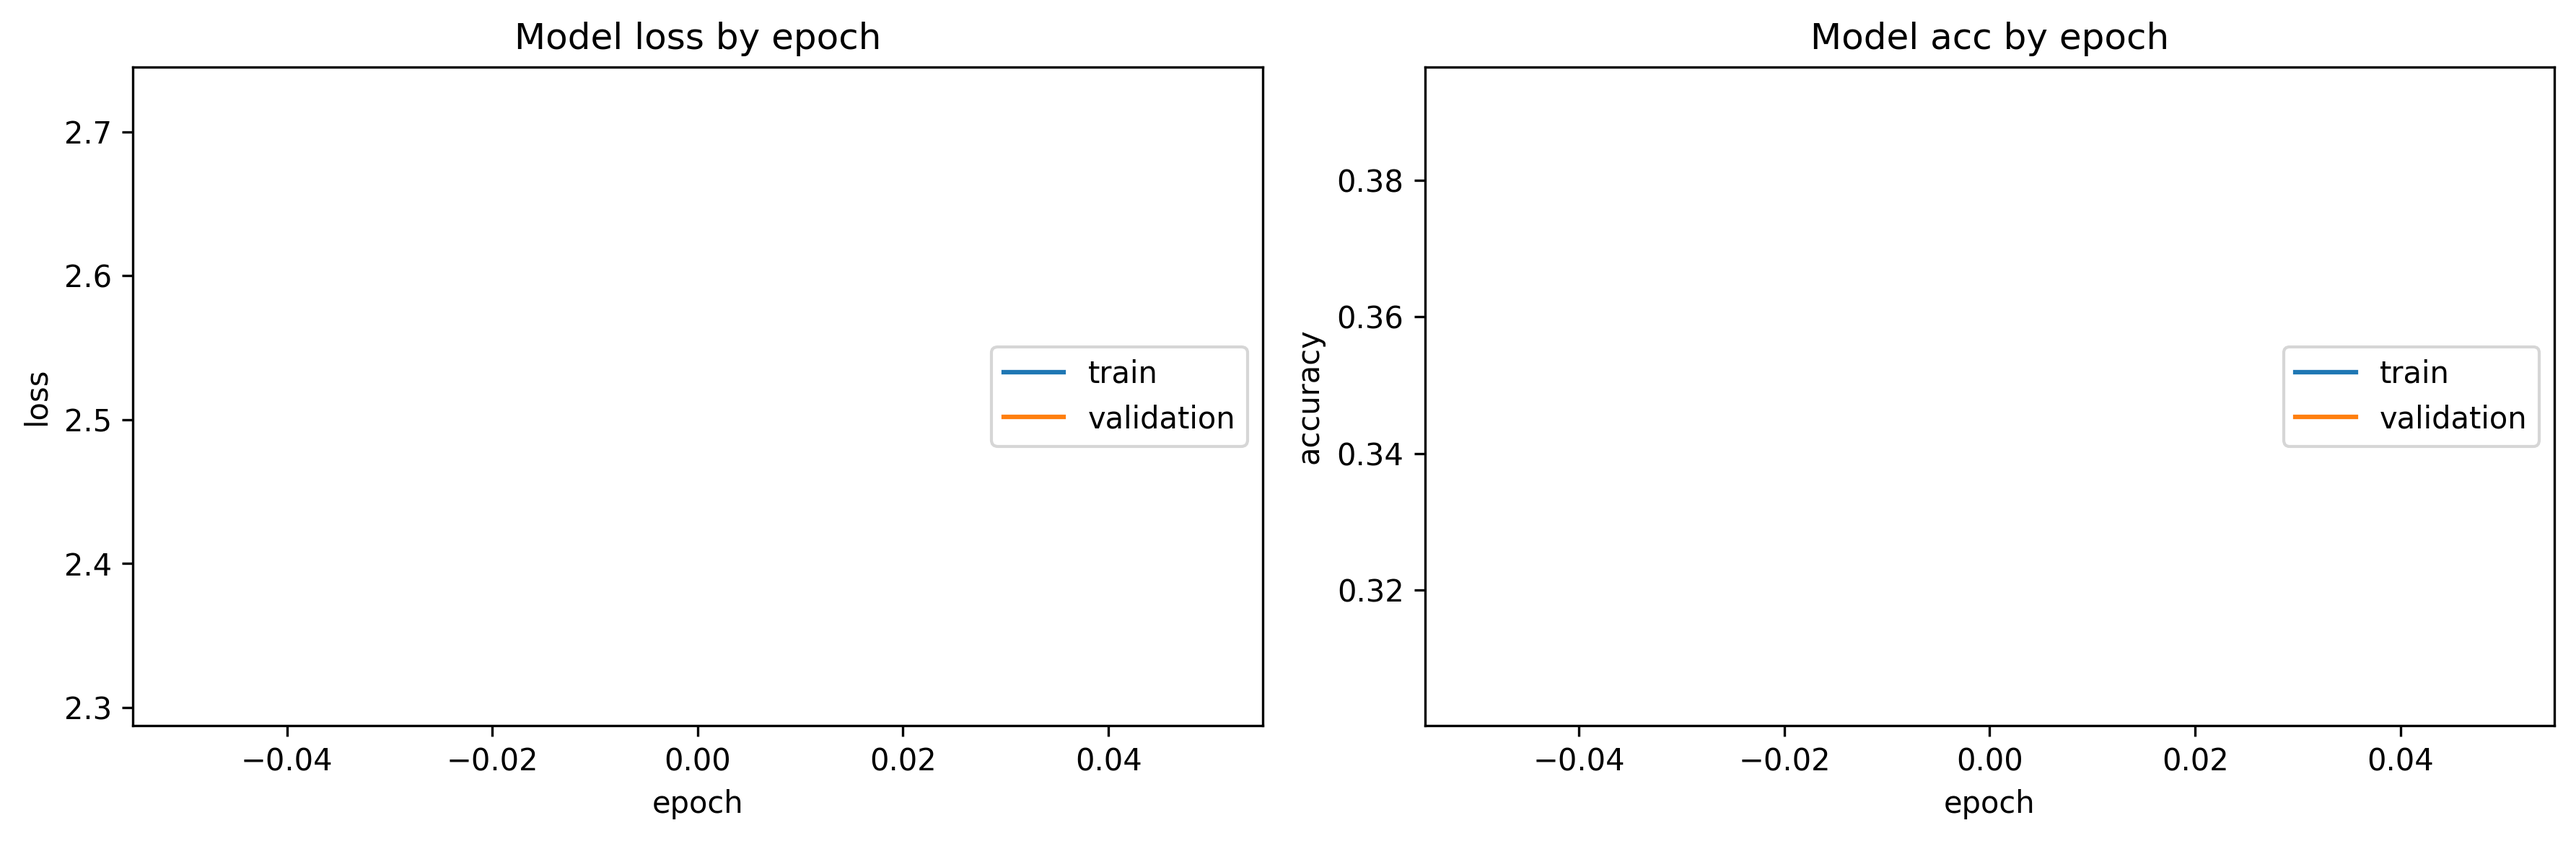
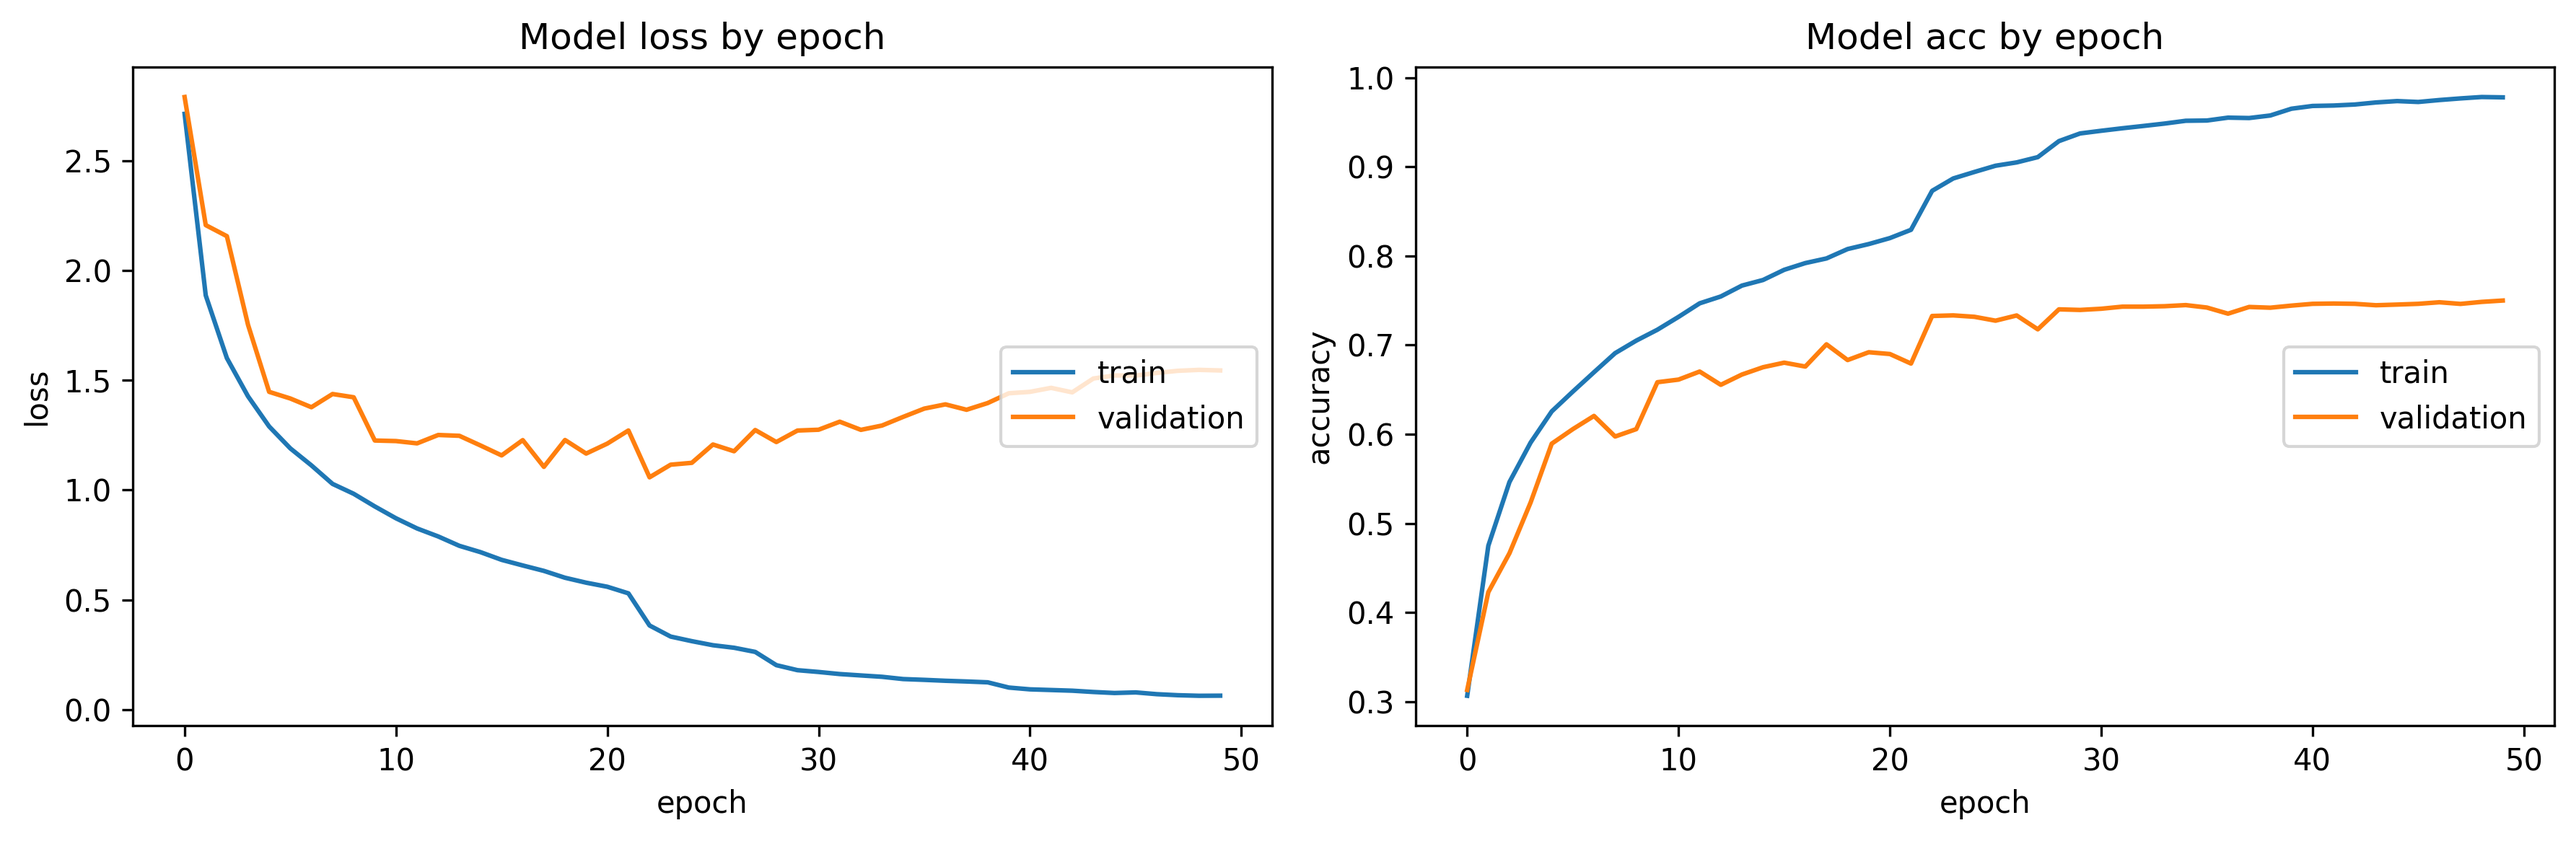
experiment with more data and 50 epochs

diff --git a/src/train_127species_exp11.py b/src/train_127species_exp11.py
@@ -28,17 +28,11 @@ from tools.metrics import AveragePrecisionCallback
 
 # Note: Use conda tf-gpu environment. Copy of exp10 with more data (page 3 in api request)
 
-# In[5]:
-
 
 from tensorflow.keras.preprocessing.image import ImageDataGenerator
 
 
 spec_dir = '../data/image_data/'
-sample_dir = '../data/image_data/Polistes_dominula/'
-
-paths_sample_plot = [join(sample_dir, f) for f in listdir(sample_dir) if isfile(join(sample_dir, f))]
-
 
 
 num_classes = 130
@@ -112,8 +106,7 @@ model.add(Dense(units=1024, activation='relu'))
 model.add(Dense(num_classes, activation='softmax'))
 
 
-# In[20]:
-
+# Callbacks
 
 early_stopping = callbacks.EarlyStopping(monitor = 'val_accuracy',
                                          patience = 10,
@@ -130,22 +123,18 @@ lr_plateau = callbacks.ReduceLROnPlateau(monitor = 'val_accuracy',
 
 
 
-optimizer = Adam(learning_rate=0.001)
-
-
 
 ap_callback = AveragePrecisionCallback(validation_data, num_classes)
 
+optimizer = Adam(learning_rate=0.001)
 
 model.compile(optimizer=optimizer, loss='sparse_categorical_crossentropy',metrics=['accuracy'])
-
 
 
 history = model.fit(training_data, validation_data=validation_data, epochs=50,
                     callbacks=[ap_callback,lr_plateau, early_stopping])
 
 
-# In[28]:
 
 
 # Go up one level to reach project root (same as src/parent)
@@ -181,7 +170,7 @@ plt.savefig(save_path / "exp11_loss_acc.png", dpi=300, bbox_inches='tight')
 plt.close()
 
 
-model.save('../models/model_127_species_exp7.h5')
+model.save('../models/model_127_species_exp11.h5')
 
 
 
